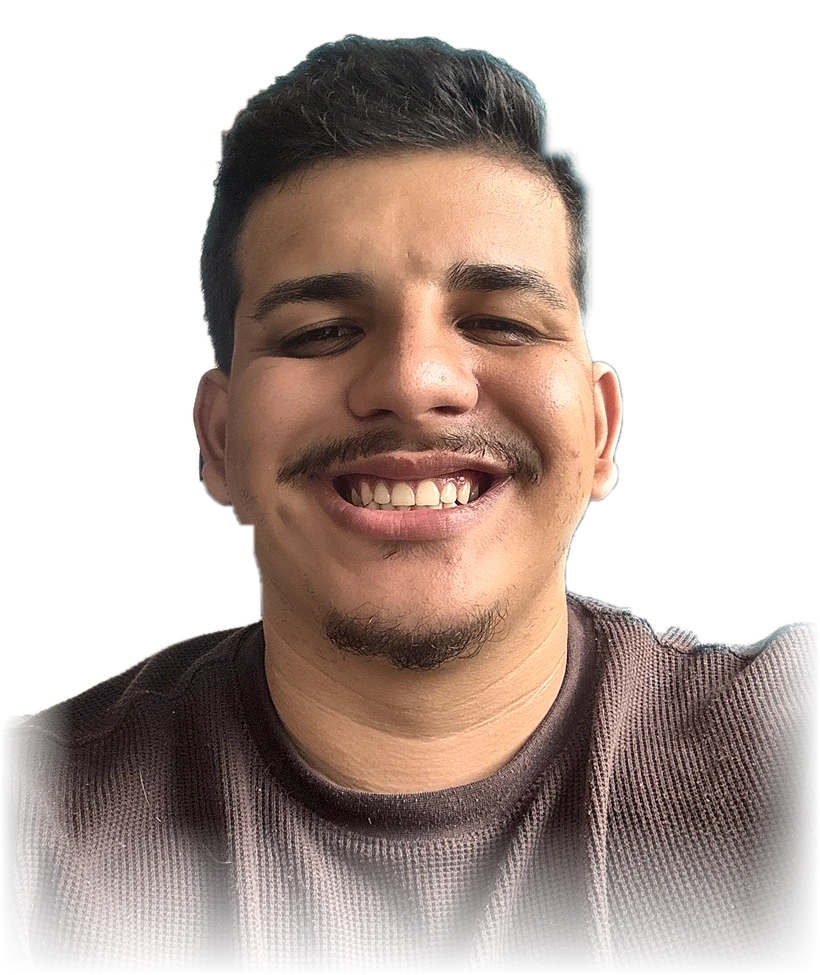
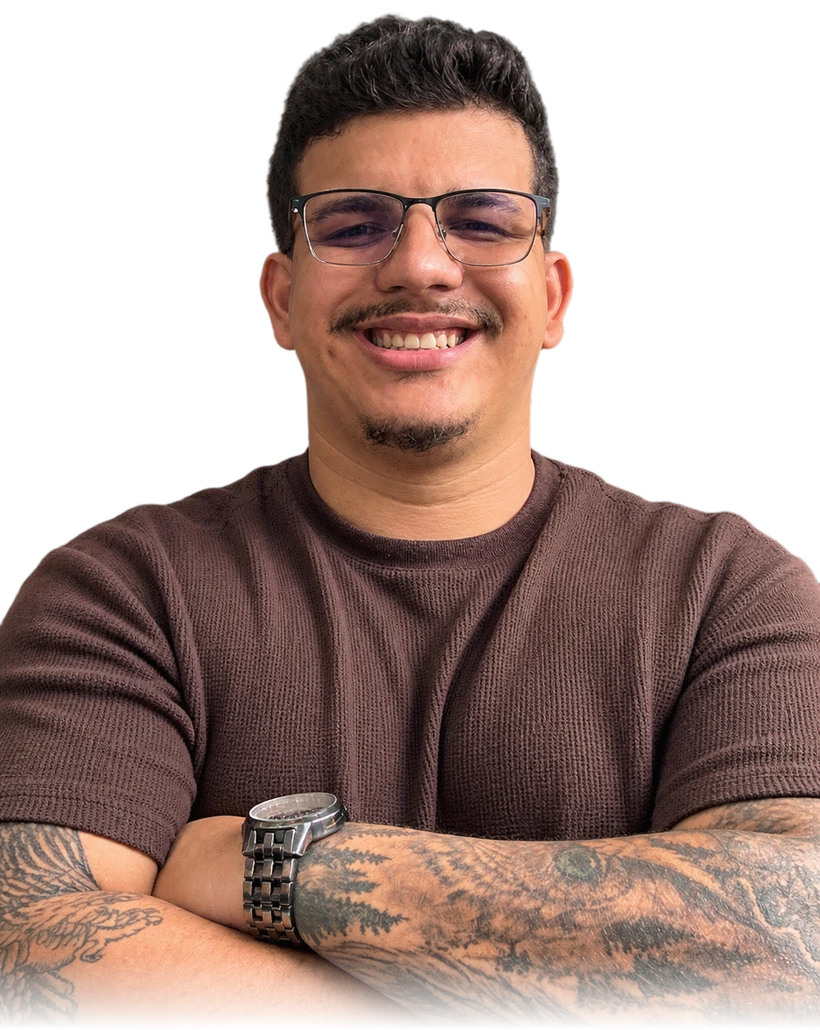
Nova foto do fundador
Claude-Session: https://claude.ai/code/session_016y9w2DbKXzVVDyrQLWc8Sn

diff --git a/site/index.html b/site/index.html
@@ -344,7 +344,7 @@ Uma experiência demonstrativa</small><a href="#os26-app">Acessar console <b>↘
       <div class="ab6-founder-photo" aria-label="Retrato de Frederico Beck, fundador da AIBeck">
         <div class="ab6-portrait-halo" aria-hidden="true"></div>
         <span class="ab6-photo-name" aria-hidden="true">FREDERICO <em>BECK.</em></span>
-        <img src="assets/fundador-frederico.webp" alt="Frederico Beck, fundador da AIBeck" width="820" height="975" loading="lazy" decoding="async"/>
+        <img src="assets/fundador-frederico.webp" alt="Frederico Beck, fundador da AIBeck" width="820" height="1030" loading="lazy" decoding="async"/>
         <div class="ab6-portrait-foot"><span>FREDERICO BECK</span><span>FOUNDER / AIBeck</span></div>
       </div>
       <div class="ab6-founder-info">
